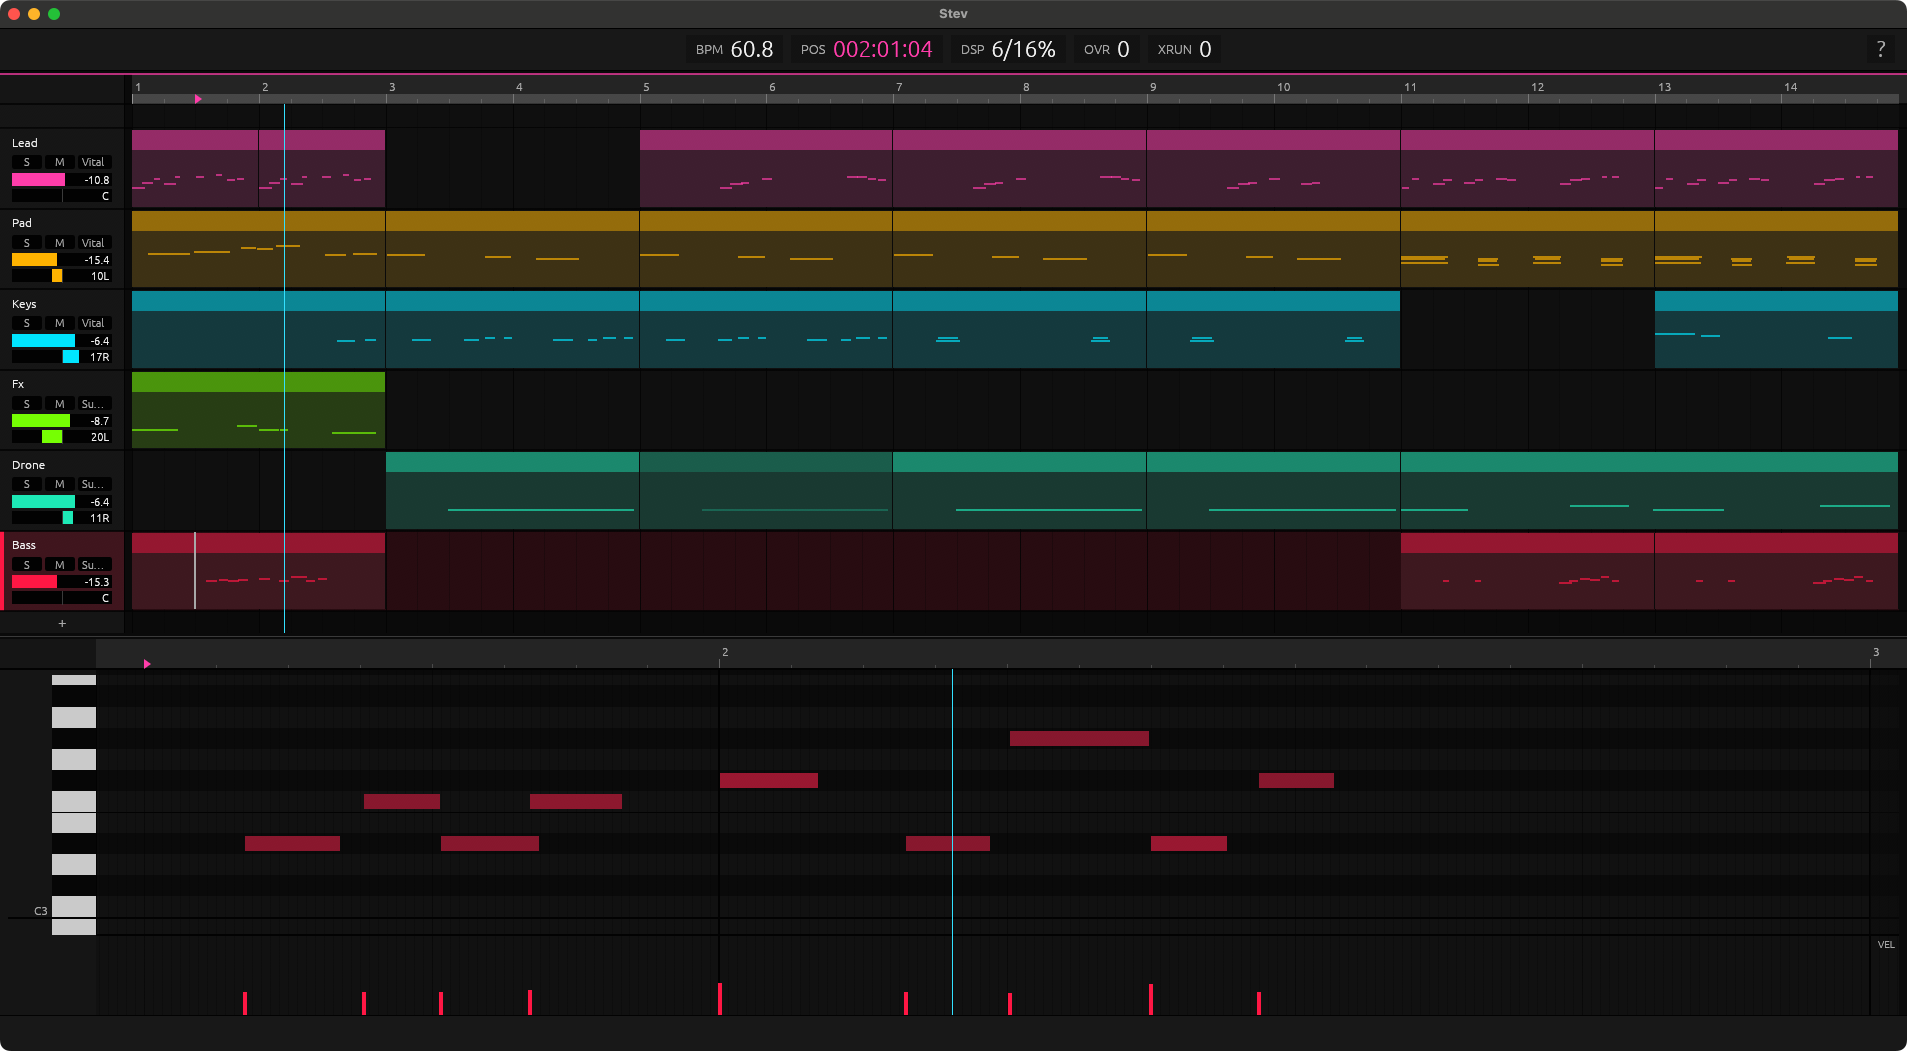
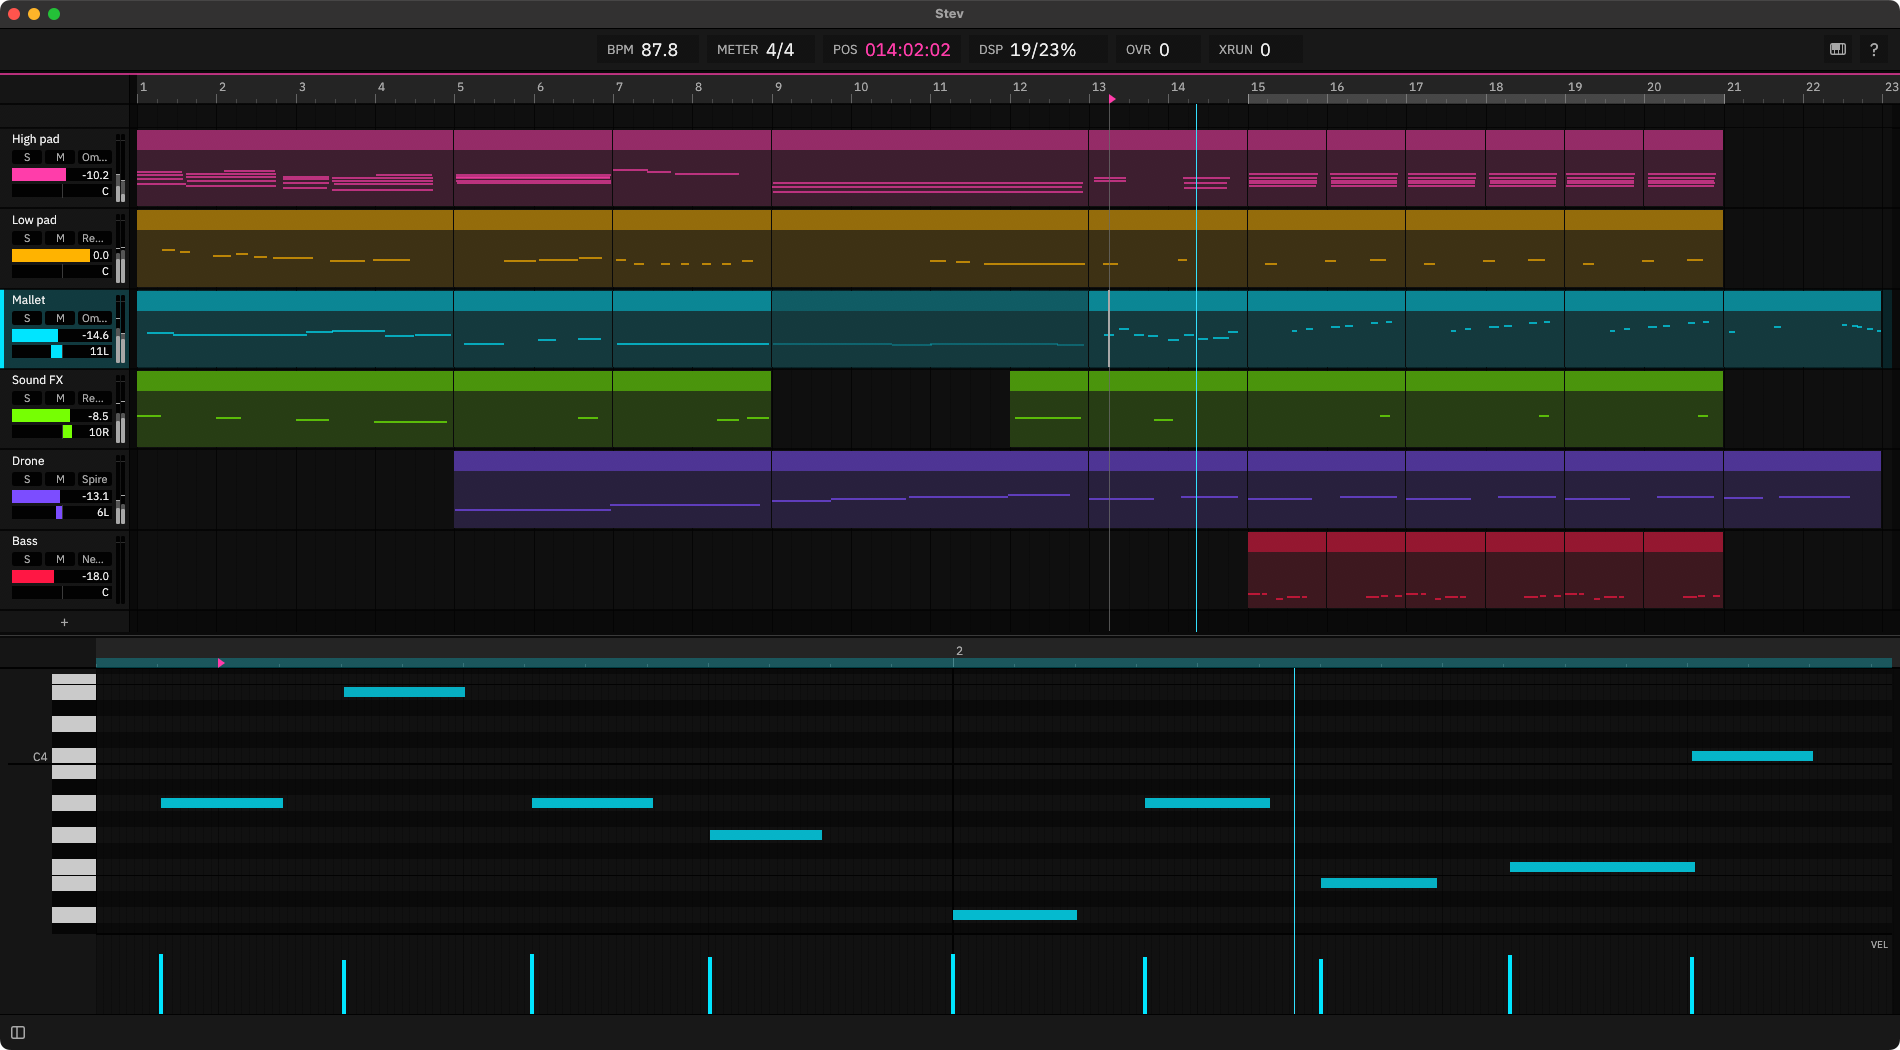
Retake the arranger screenshot
Six named tracks at 1900x1050, the clip panel fitted to a mallet clip.
The site's image size and both alt texts follow it.

diff --git a/site/index.html b/site/index.html
@@ -49,8 +49,8 @@
 </section>
 
 <figure class="shot wrap">
-  <img src="images/arranger.png" width="1907" height="1051"
-       alt="Stev: six tracks of captured clips in the arranger, with the clip panel open on a bass line">
+  <img src="images/arranger.png" width="1900" height="1050"
+       alt="Stev: six tracks of captured clips in the arranger, with the clip panel open on a mallet part">
 </figure>
 
 <section class="wrap" id="steps">

diff --git a/README.md b/README.md
@@ -14,7 +14,7 @@ anywhere, it can drive a DAW or external gear over MIDI.
 
 *A* stev *is a short Norwegian folk verse, traditionally improvised.*
 
-![Stev: six tracks of captured clips in the arranger, with the clip panel open on a bass line](docs/images/arranger.png)
+![Stev: six tracks of captured clips in the arranger, with the clip panel open on a mallet part](docs/images/arranger.png)
 
 > **Status:** 0.5.0, source releases only (no prebuilt app yet). Developed and
 > tested on macOS. Linux and Windows build in CI and may work (MIDI Out only, no
